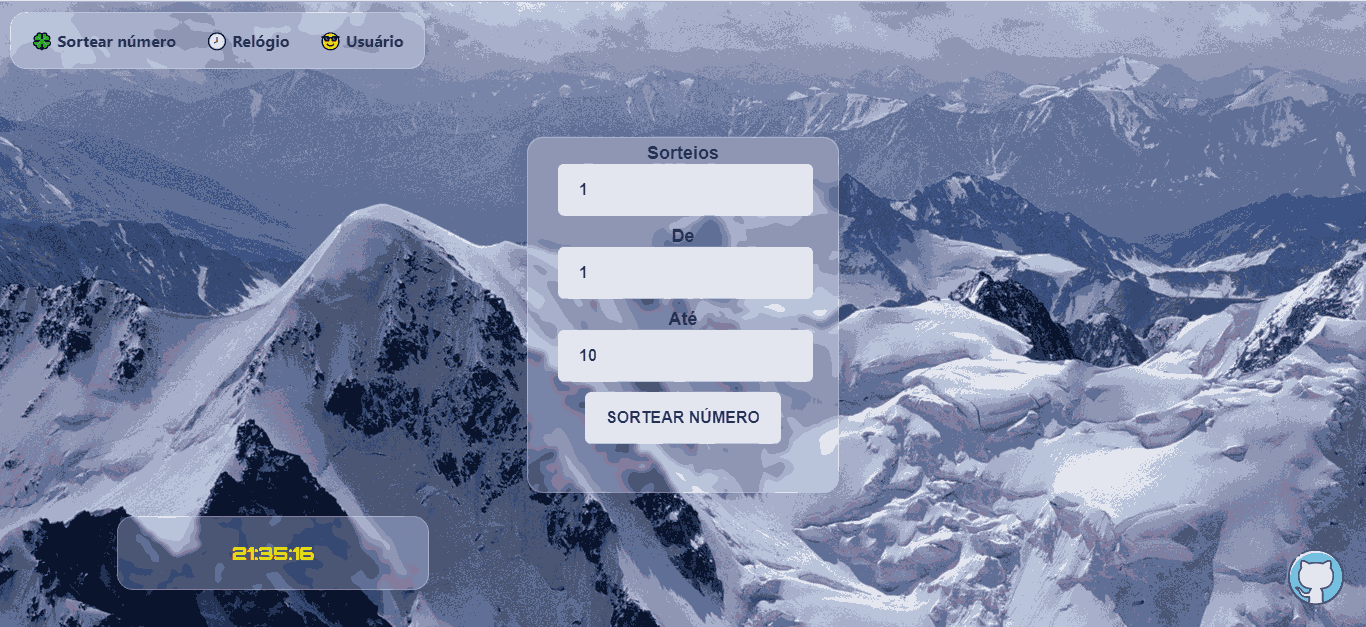
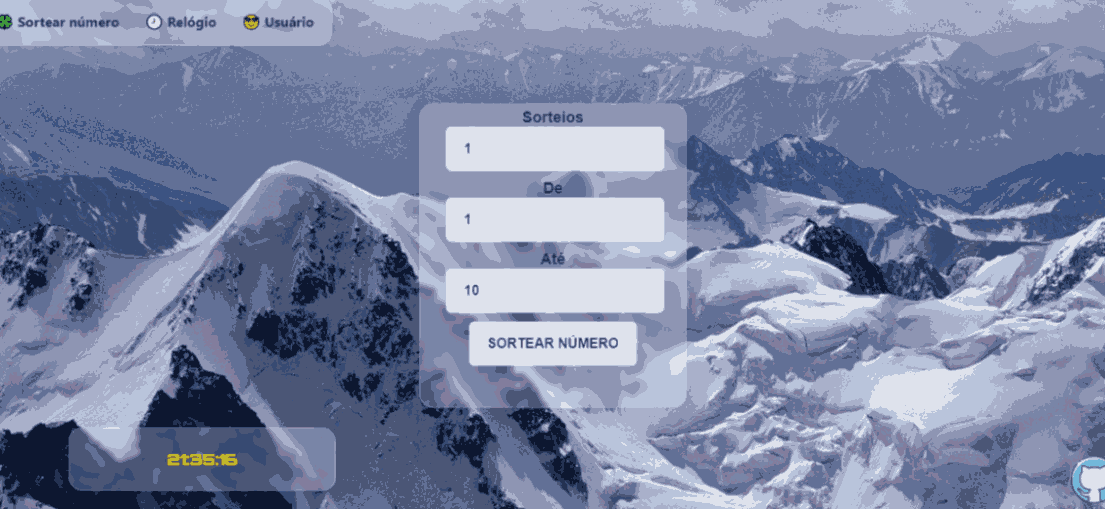
🔥
update index.html
resize preview-min.png

diff --git a/public/index.html b/public/index.html
@@ -1,30 +1,58 @@
+<!--
+    FEITO POR: https://github.com/LucasATS
+-->
+
 <html lang="pt-br">
-  <head>
-    <!-- Config -->
-    <meta charset="UTF-8">
-    <title>🍀 Sortear número 🍀</title>
-    <meta name="theme-color" content="#D089FF">
-    <meta name="viewport" content="width=device-width, initial-scale=1.0">
-    <meta http-equiv="Content-Type" content="text/html; charset=utf-8">
-    <link rel="shortcut icon" href="https://raw.githubusercontent.com/LucasATS/LucasATS/main/src/img/cartoon1.png" type="image/x-icon">
+<head>
 
-  </head>
-  <body>
+  <!-- Primary Meta Tags -->
+  <link rel="shortcut icon" 
+  href="https://raw.githubusercontent.com/LucasATS/LucasATS/main/src/img/cartoon1.png" type="image/x-icon">
+  <meta charset="UTF-8">
+  <meta http-equiv="Content-Type" content="text/html; charset=utf-8">
+  <meta name="theme-color" content="#D089FF">
+  <meta name="viewport" content="width=device-width, initial-scale=1.0">
 
-    <!-- VISITE MINHA PÁGINA NO GITHUB :D -->
-    <style> 
-      @media only screen and (orientation: portrait) { .github-img { width: 60px !important; } }
-      .carimbo-github-img { width: 60px; border-radius: 360px; }
-      .carimbo-github-link{ position: fixed; right: 20px; bottom: 20px; z-index: 10; }
-    </style>
-    <a title="Visite minha página no github" 
-      href="https://github.com/LucasATS/Sorteador-de-numeros"
-      class="carimbo-github-link">
-      <img class="carimbo-github-img" src="https://raw.githubusercontent.com/LucasATS/LucasATS/main/src/svg/github.svg">
-    </a>
+  <meta name="title" content="🍀 Sortear número 🍀">
+  <meta name="description" content="Um modelo de site feito em React para sortear números aleatórios.">
+  <meta name="keywords" content="LucasATS, react, relógio, aleatório, número, numero, sorteador, sorteador-de-numeros, brazil, divertido, lucas-almeida, lucas-almeida-tiburtino-da-silva">
+  <meta name="robots" content="index, follow">
+  <meta name="language" content="Portuguese">
+  <meta name="author" content="LucasATS">
+  <meta name="thumbnail" content="../preview-low.png">
 
-    <noscript>Ative o JavaScript no navegador para rodar esse site.</noscript>
-    <div id="root"></div>
+  <!-- Open Graph / Facebook -->
+  <meta property="og:type" content="website">
+  <meta property="og:url" content="https://lucasats.github.io/Sorteador-de-numeros/">
+  <meta property="og:title" content="🍀 Sortear número 🍀">
+  <meta property="og:description" content="Um modelo de site feito em React para sortear números aleatórios.">
+  <meta property="og:image" content="../preview-min.png">
 
-  </body>
+  <!-- Twitter -->
+  <meta property="twitter:card" content="summary_large_image">
+  <meta property="twitter:url" content="https://lucasats.github.io/Sorteador-de-numeros/">
+  <meta property="twitter:title" content="🍀 Sortear número 🍀">
+  <meta property="twitter:description" content="Um modelo de site feito em React para sortear números aleatórios.">
+  <meta property="twitter:image" content="../preview-min.png">
+
+</head>
+
+<body>
+
+  <!-- VISITE MINHA PÁGINA NO GITHUB :D -->
+  <style>
+    @media only screen and (orientation: portrait) { .github-img { width: 60px !important; } }
+    .carimbo-github-img { width: 60px; border-radius: 360px; }
+    .carimbo-github-link { position: fixed; right: 20px; bottom: 20px; z-index: 10; }
+  </style>
+  <a title="Visite minha página no github" href="https://github.com/LucasATS/Sorteador-de-numeros"
+    class="carimbo-github-link">
+    <img class="carimbo-github-img" src="https://raw.githubusercontent.com/LucasATS/LucasATS/main/src/svg/github.svg">
+  </a>
+
+  <noscript>Ative o JavaScript no navegador para rodar esse site.</noscript>
+  <div id="root"></div>
+
+</body>
+
 </html>
